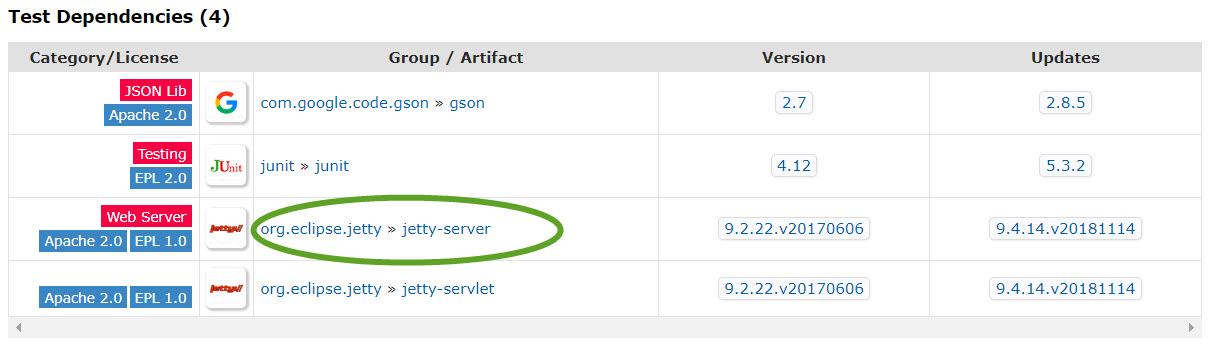
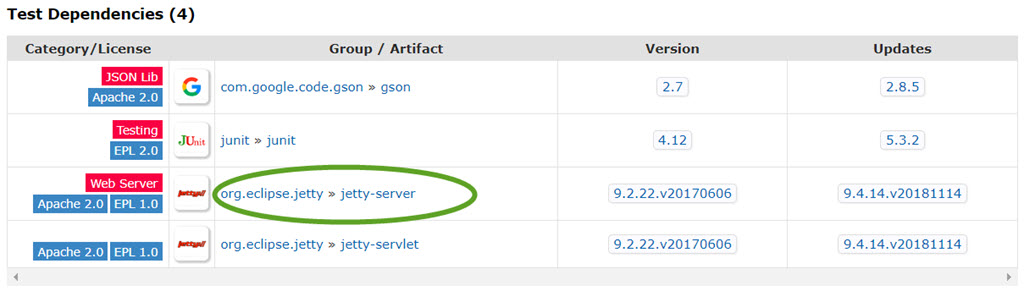
typo fix and image resize

diff --git a/projects/projects.md b/projects/projects.md
@@ -2,7 +2,7 @@
 
 ### Motivation
 
-These exercise projects are designed for students with other programming language experience ready.
+These exercise projects are designed for students with other programming language experience already.
 While beginners still need to get familiar with basic stuff, these students would get boring and waste
 time, as a result, they are suggested to resolve some relatively complex exercises to improve their Java
 programming skills. These projects are ordered by their difficulties or workload, from easy to hard or from
